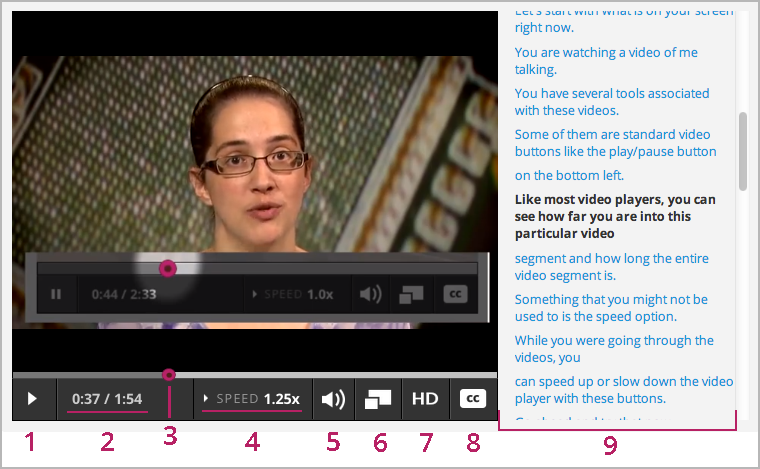
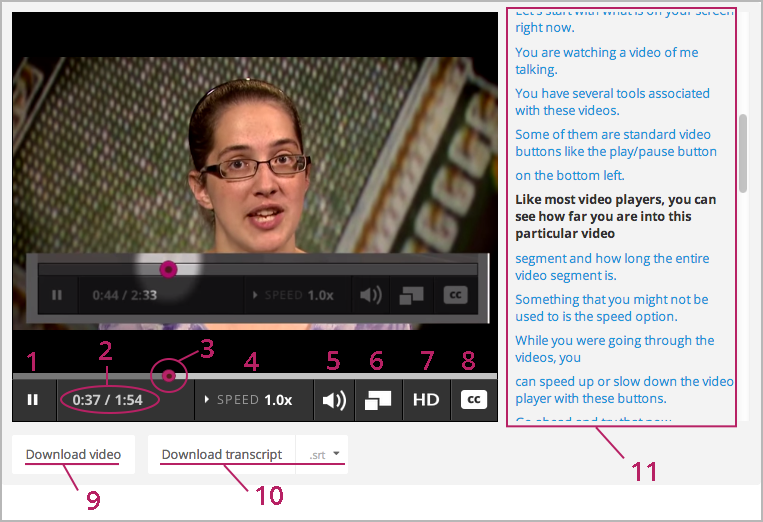
Add download information to video SFD topic

diff --git a/en_us/students/source/SFD_video_player.rst b/en_us/students/source/SFD_video_player.rst
@@ -1,4 +1,4 @@
-.. _The edX Video Player:
+.. _Video Player:
 
 #####################
 The edX Video Player
@@ -32,7 +32,14 @@ an explanation of each option or control on the video player.
    has a high-definition option.
 8. **Show transcript control**: You can show or hide the scrolling transcript to the
    right of the video by selecting this control. 
-9. **Transcript**: The transcript for the video plays by default when your video
+9. **Download video option**: This option allows you to download the video to
+   watch later. You only see this option if the video is available for download.
+10. **Download transcript option**: This option allows you to download a copy of
+    the video's transcript. You can download the transcript as a SubRip (.srt)
+    file or as a text (.txt) file. You can open files of both types in a text
+    editor such as Notepad. You only see this option if the transcript is
+    available for download.
+11. **Transcript**: The transcript for the video plays by default when your video
    starts. You can scroll through the transcript and click on any word to go to
    that point in the video.
 
